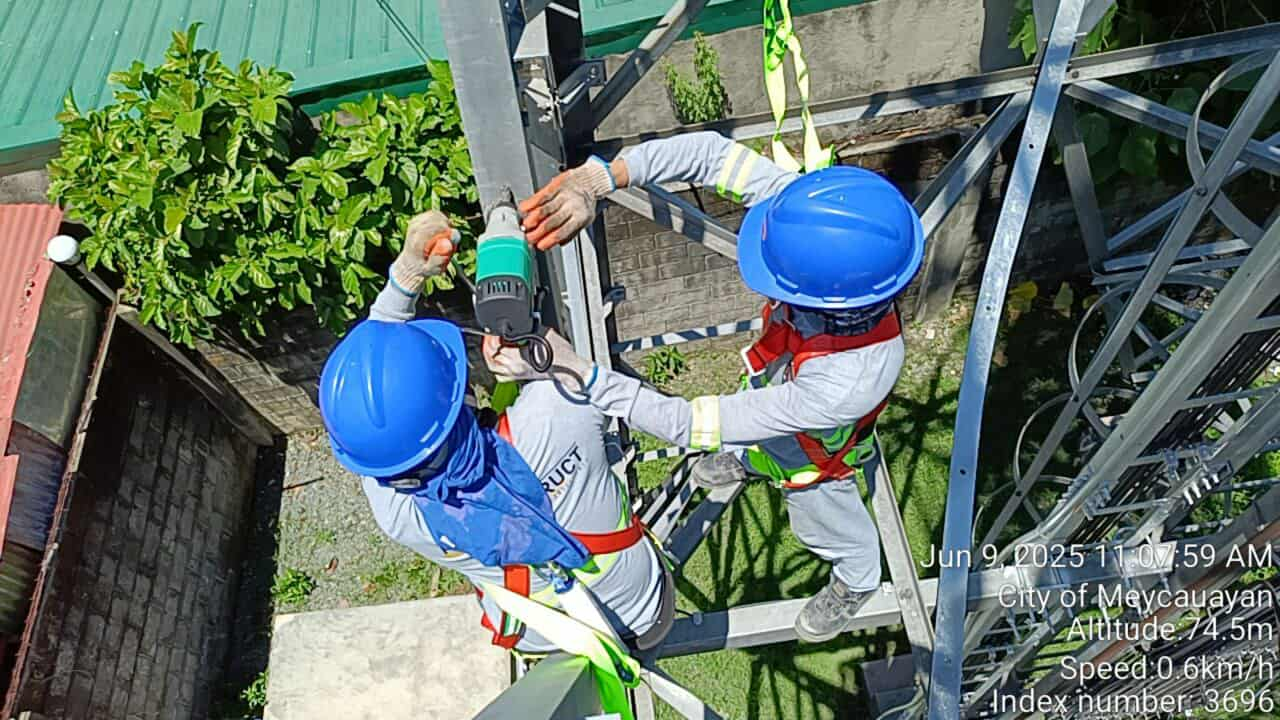
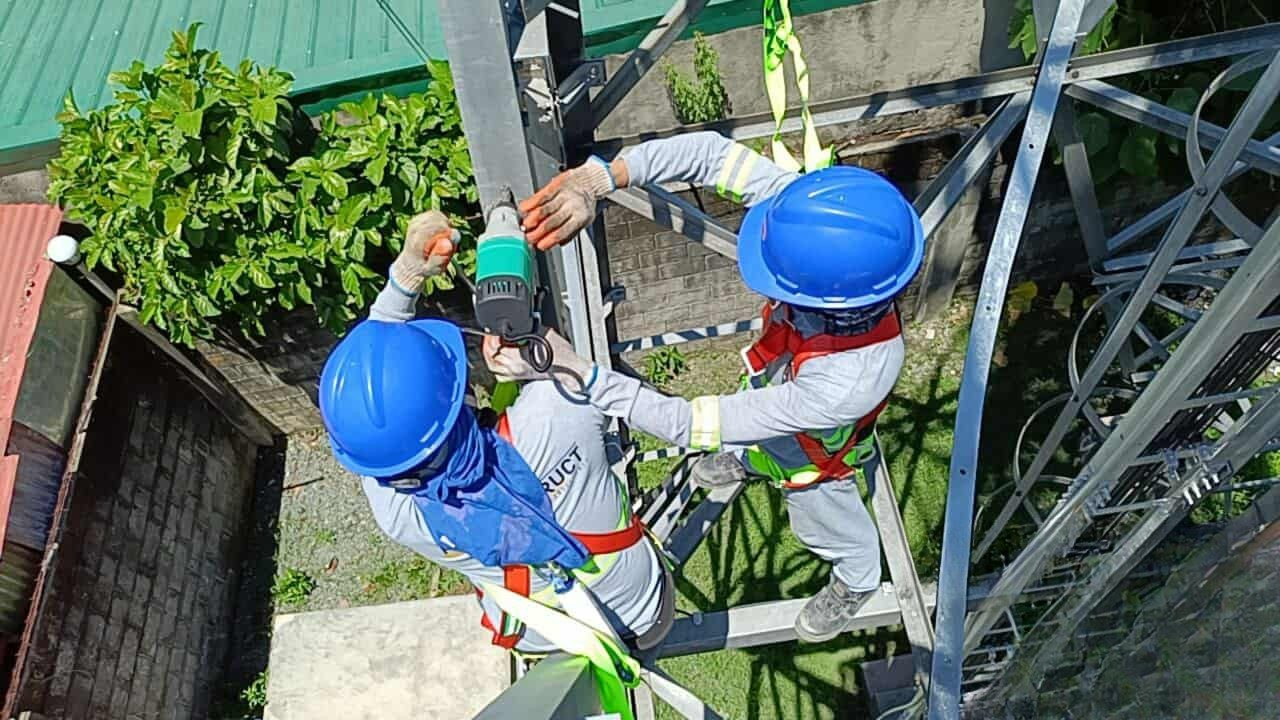
added new pictures in who we are

Changed region(s): [[0.6875, 0.7028, 1.0, 1.0]]

diff --git a/src/components/About.tsx b/src/components/About.tsx
@@ -7,6 +7,10 @@ const employeePhotos = [
   "/employees/3.jpg",
   "/employees/4.jpg",
   "/employees/5.png",
+  "/employees/7.jpg",
+  "/employees/8.jpg",
+  "/employees/9.jpg",
+  "/employees/10.jpg",
 ];
 
 const About = () => {
